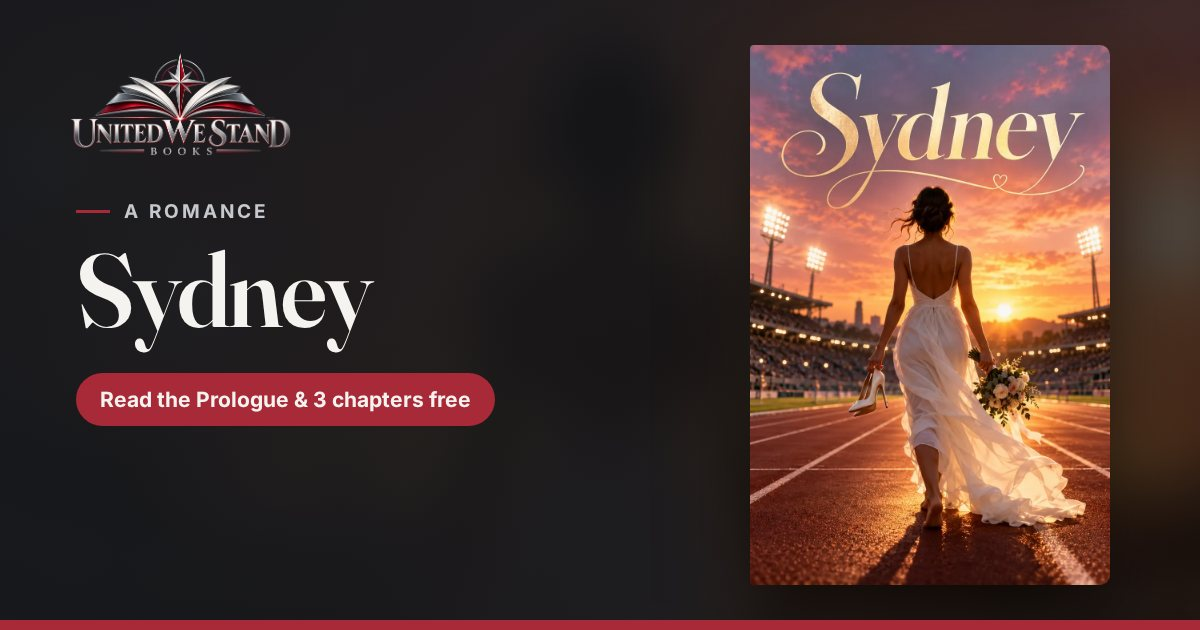
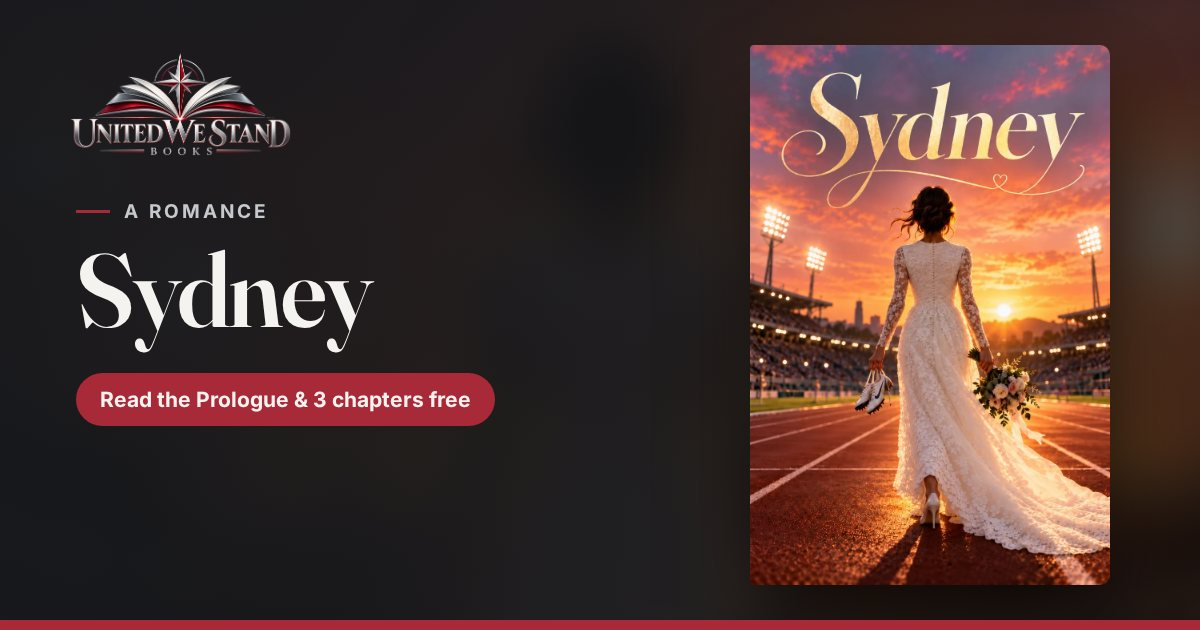
New Sydney cover

diff --git a/index.html b/index.html
@@ -90,7 +90,7 @@
     <div class="sb-hero-art">
       <div class="sb-covers">
         <a class="hc hc-left" href="/books/15-seconds-to-ruin/" aria-label="15 Seconds to Ruin: read free chapters"><picture><source type="image/webp" srcset="/assets/img/books/15-seconds-to-ruin-360.webp 360w, /assets/img/books/15-seconds-to-ruin-600.webp 600w" sizes="(max-width: 639px) 40vw, 260px"><img src="/assets/img/books/15-seconds-to-ruin-600.jpg" width="600" height="900" alt="" decoding="async" loading="eager"></picture></a>
-        <a class="hc hc-right" href="/books/sydney/" aria-label="Sydney: read free chapters"><picture><source type="image/webp" srcset="/assets/img/books/sydney-360.webp 360w, /assets/img/books/sydney-600.webp 600w" sizes="(max-width: 639px) 40vw, 260px"><img src="/assets/img/books/sydney-600.jpg" width="600" height="900" alt="" decoding="async" loading="eager"></picture></a>
+        <a class="hc hc-right" href="/books/sydney/" aria-label="Sydney: read free chapters"><picture><source type="image/webp" srcset="/assets/img/books/sydney-360.webp?v=2 360w, /assets/img/books/sydney-600.webp?v=2 600w" sizes="(max-width: 639px) 40vw, 260px"><img src="/assets/img/books/sydney-600.jpg?v=2" width="600" height="900" alt="" decoding="async" loading="eager"></picture></a>
         <a class="hc hc-center" href="/books/amarion-a-call-to-arms/" aria-label="Amarion and the 2000: A Call to Arms: read free chapters"><picture><source type="image/webp" srcset="/assets/img/books/amarion-a-call-to-arms-360.webp 360w, /assets/img/books/amarion-a-call-to-arms-600.webp 600w" sizes="(max-width: 639px) 40vw, 260px"><img src="/assets/img/books/amarion-a-call-to-arms-600.jpg" width="600" height="900" alt="" decoding="async" fetchpriority="high"></picture></a>
       </div>
       <p class="sb-genres"><a href="/books/?genre=romance">Romance</a> <span aria-hidden="true">/</span> <a href="/books/?genre=thriller">Thrillers</a> <span aria-hidden="true">/</span> <a href="/books/?genre=action">Action</a> &mdash; discover your next story with confidence.</p>

diff --git a/assets/js/books.js b/assets/js/books.js
@@ -733,11 +733,11 @@ window.UWSB_BOOKS = [
       "Sydney is a captivating, clean contemporary romance filled with humor, unexpected challenges, heartfelt moments, and a journey of faith, trust, and self-discovery."
     ],
 
-    cover_image: "/assets/img/books/sydney-600.webp",
-    cover_srcset: "/assets/img/books/sydney-360.webp 360w, /assets/img/books/sydney-600.webp 600w, /assets/img/books/sydney-900.webp 900w",
-    cover_fallback: "/assets/img/books/sydney-600.jpg",
-    cover_alt: "Cover of Sydney. A bride in a flowing white dress, seen from behind, walks barefoot down a stadium running track at sunset, holding high heels in one hand and a bouquet in the other, under bright stadium lights, beneath the title Sydney in gold script with a heart flourish.",
-    og_image: "/assets/img/books/og-sydney.jpg",
+    cover_image: "/assets/img/books/sydney-600.webp?v=2",
+    cover_srcset: "/assets/img/books/sydney-360.webp?v=2 360w, /assets/img/books/sydney-600.webp?v=2 600w, /assets/img/books/sydney-900.webp?v=2 900w",
+    cover_fallback: "/assets/img/books/sydney-600.jpg?v=2",
+    cover_alt: "Cover of Sydney. A bride seen from behind walks down a stadium running track at sunset in a long-sleeved white lace wedding gown with a long train and white high heels, carrying white track spikes in one hand and a bouquet in the other, under bright stadium lights, beneath the title Sydney in gold script with a heart flourish.",
+    og_image: "/assets/img/books/og-sydney.jpg?v=2",
 
     clean_review_status: "pending",
     clean_notes: [

diff --git a/books/sydney/index.html b/books/sydney/index.html
@@ -12,7 +12,7 @@
   <meta property="og:title" content="Sydney | United We Stand Books">
   <meta property="og:description" content="Sydney Anderson knows how to win. On the track, she’s unstoppable. But when it comes to relationships, her record is anything but golden.">
   <meta property="og:url" content="https://unitedwestandbooks.com/books/sydney/">
-  <meta property="og:image" content="https://unitedwestandbooks.com/assets/img/books/og-sydney.jpg">
+  <meta property="og:image" content="https://unitedwestandbooks.com/assets/img/books/og-sydney.jpg?v=2">
   <meta property="og:image:width" content="1200">
   <meta property="og:image:height" content="630">
   <meta property="og:image:alt" content="Sydney: book cover and title. Free preview chapters at United We Stand Books.">
